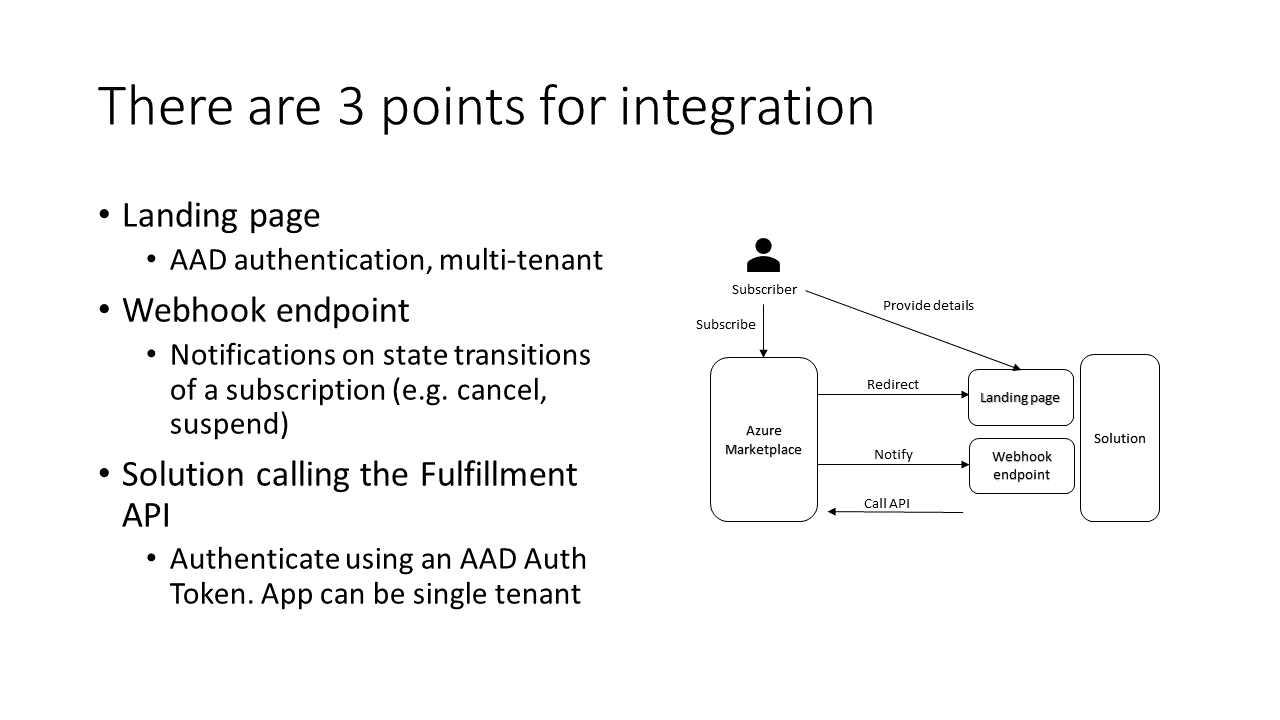
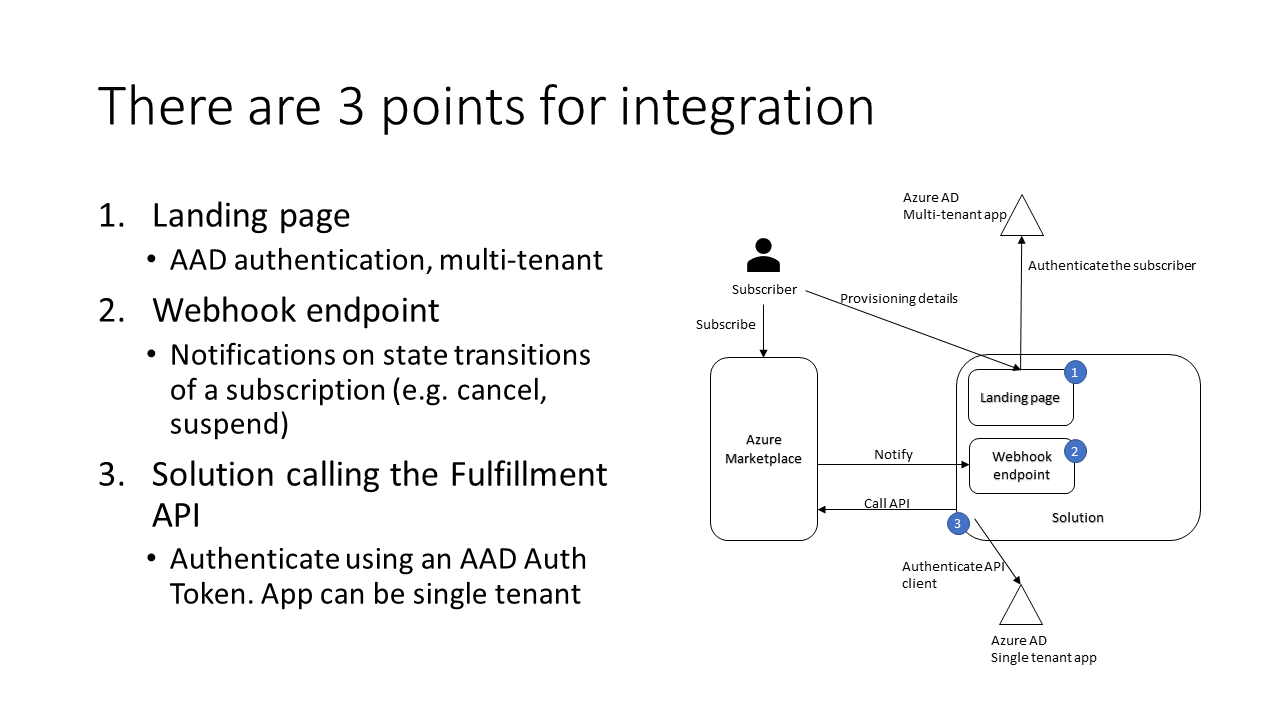
More figure and readme updates

diff --git a/Docs/README.md b/Docs/README.md
@@ -10,3 +10,5 @@
 ![Slide 1 - Containing the title](Slide4.PNG "Title")
 ![Slide 1 - Containing the title](Slide5.PNG "Title")
 ![Slide 1 - Containing the title](Slide6.PNG "Title")
+![Slide 1 - Containing the title](Slide7.PNG "Title")
+![Slide 1 - Containing the title](Slide8.PNG "Title")
